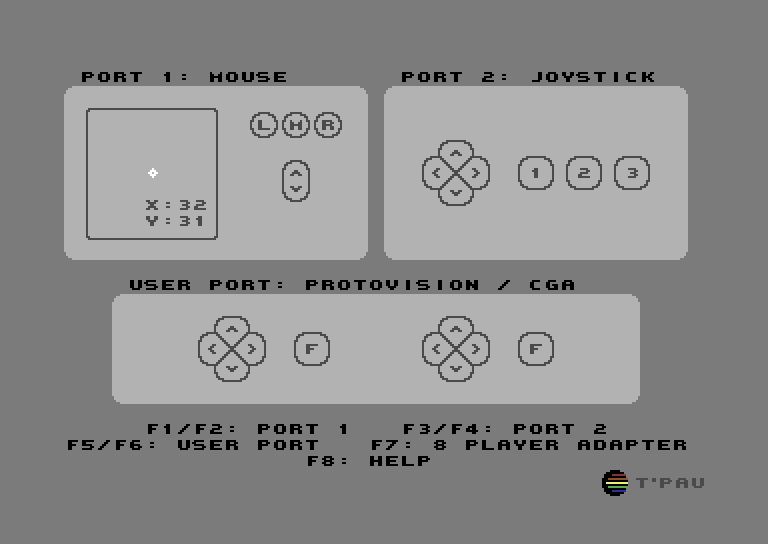
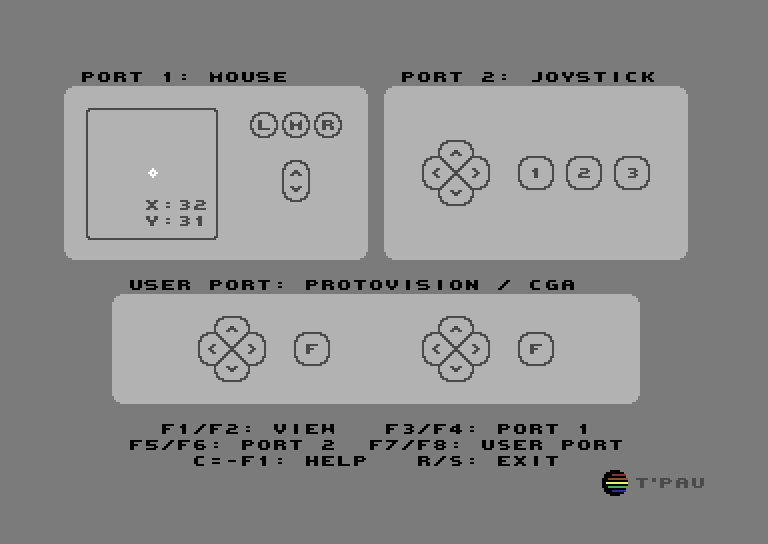
Add native Commodore 128 version.

diff --git a/README.md b/README.md
@@ -2,9 +2,7 @@
 
 ![Screenshot](screenshot.png)
 
-This program monitors the controllers connected to your Commodore 64 and displays relevant information depending on their types. You can use the function keys to select the correct type or to display raw data.
-
-Adapters that support more than two controllers don't fit in the main screen. `F7` switches to a layout that supports four controllers per page.
+This program monitors the controllers connected to your Commodore 64 / 128 and displays relevant information depending on their types. You can use the function keys to select the correct type or to display raw data.
 
 For digital inputs, the button or direction is inverted when pressed. Analog inputs are displayed as numbers and by positioning a cursor.
 

diff --git a/BUILDING.md b/BUILDING.md
@@ -1,4 +1,4 @@
-# Building Anykey from Source
+# Building from Source
 
 ## Required Tools
 
@@ -7,7 +7,6 @@ You will need the following programs installed:
 - [Accelerate](https://github.com/T-Pau/Accelerate)
 - `c1541` utility from [Vice](http://vice-emu.sourceforge.net)
 - [fast-ninja](https://github.com/T-Pau/fast-ninja/)
-- [gfx-converter](https://github.com/T-Pau/gfx-converter)
 - [ninja](https://ninja-build.org/)
 - [Python](https://www.python.org/)
 

diff --git a/NEWS.md b/NEWS.md
@@ -1,5 +1,6 @@
 # Version 1.8 (Unreleased)
 
+- Native version for Commodore 128.
 - Add support for NEOS mouse.
 - Add support for Amiga mouse.
 - Add support for Atari ST mouse.
